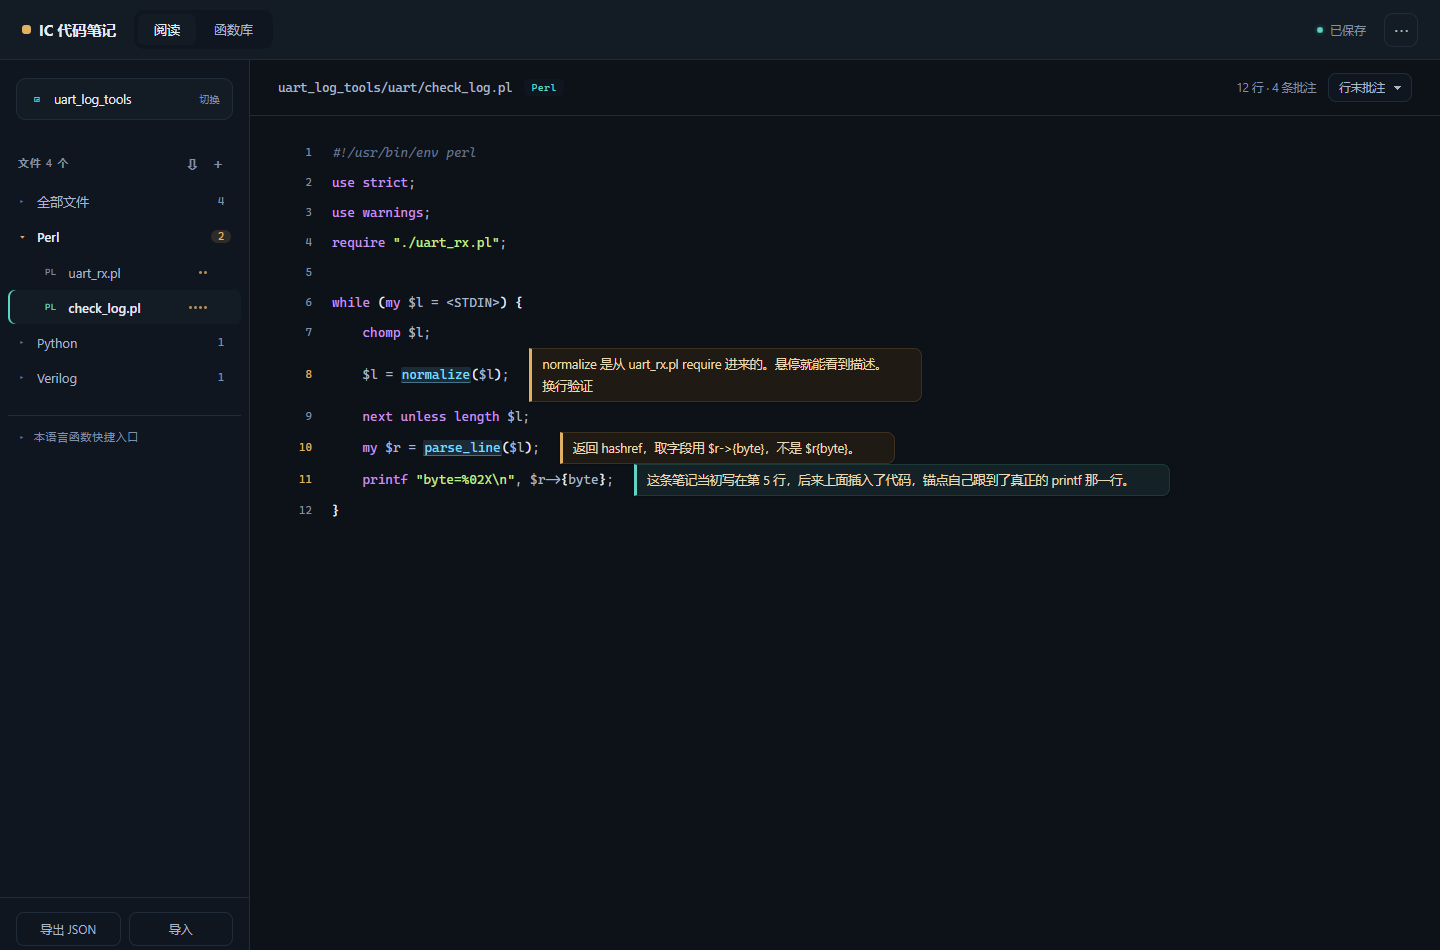
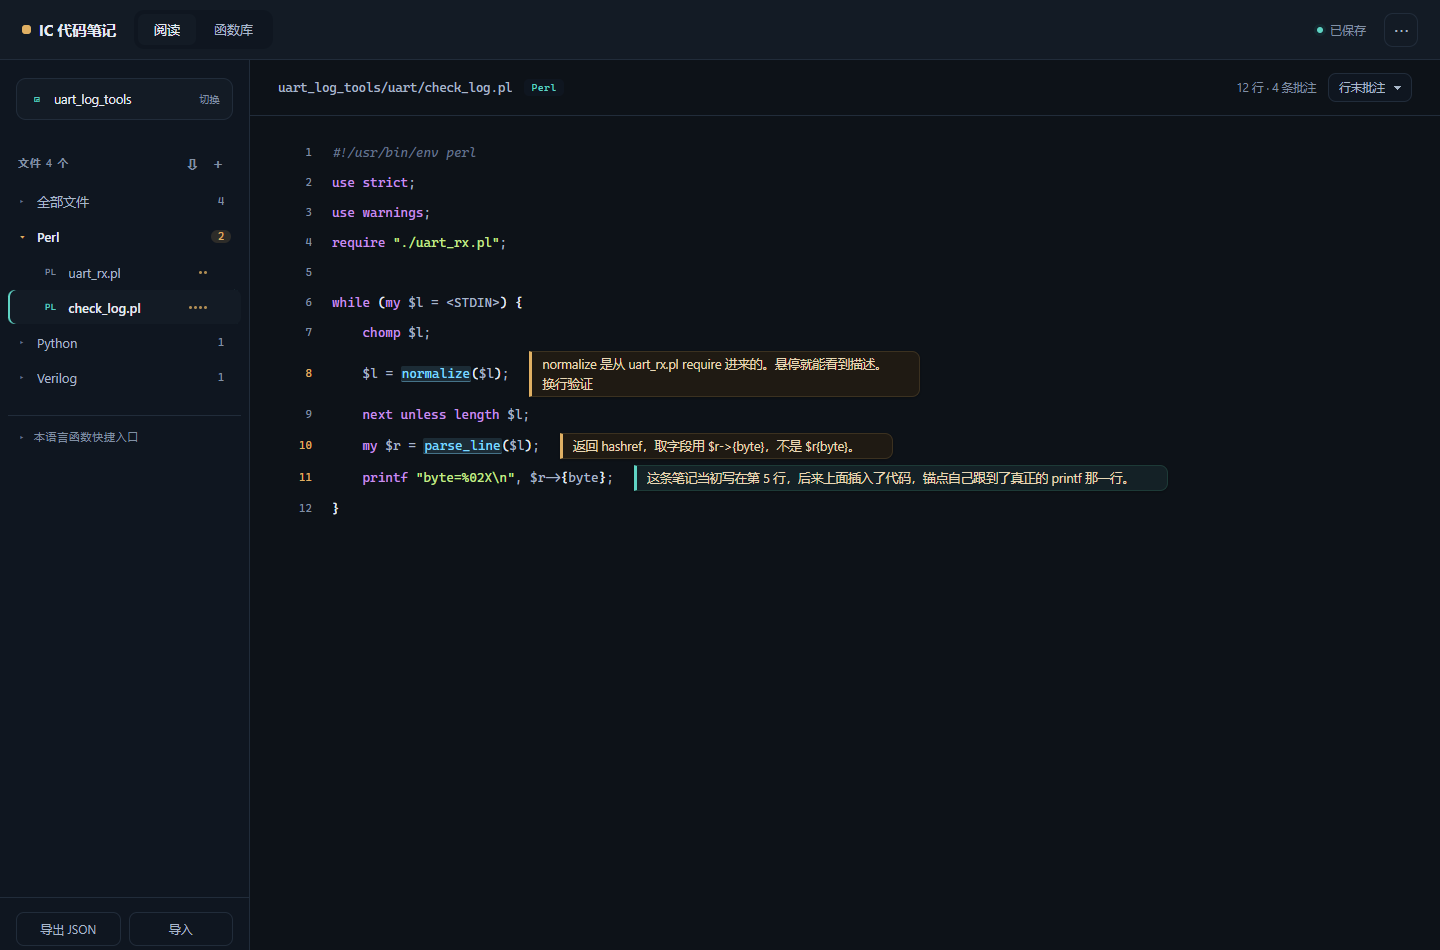
Tighten note card padding and add a visible gap between stacked cards

Changed region(s): [[0.25, 0.3663, 0.8125, 0.5189], [0.375, 0.3968, 0.4375, 0.4274]]

diff --git a/ui-refresh.css b/ui-refresh.css
@@ -155,13 +155,13 @@ button:focus-visible,select:focus-visible,input:focus-visible,[contenteditable]:
 /* ---------------- note cards ---------------- */
 .nb{position:relative;background:var(--note-bg);color:var(--note-ink);
   border-left:3px solid var(--accent);border-radius:0 8px 8px 0;
-  padding:4px 34px 4px 10px;margin:0}
-.nb .body,.nb .ctext{font-size:12.5px;line-height:22px;color:var(--note-ink);
-  white-space:pre-wrap;overflow-wrap:anywhere;outline:none;min-height:22px}
+  padding:2px 32px 2px 10px;margin:3px 0}
+.nb .body,.nb .ctext{font-size:12.5px;line-height:20px;color:var(--note-ink);
+  white-space:pre-wrap;overflow-wrap:anywhere;outline:none;min-height:20px}
 .nb .body:empty:before{content:attr(data-ph);content:"写下批注…";color:color-mix(in srgb,var(--note-ink) 55%,transparent)}
 .nb:focus-within{box-shadow:none}
-.nb.cmt{background:var(--com-bg);border-left:3px solid #9db3c6;padding:4px 12px;border-radius:0 8px 8px 0}
-.nb.cmt .ctext{color:var(--com-ink);font-size:12.5px;line-height:22px}
+.nb.cmt{background:var(--com-bg);border-left:3px solid #9db3c6;padding:2px 12px;border-radius:0 8px 8px 0}
+.nb.cmt .ctext{color:var(--com-ink);font-size:12.5px;line-height:20px}
 .nb.moved{border-left-color:var(--teal);background:color-mix(in srgb,var(--teal) 8%,var(--paper))}
 .nb.dup{border-left-color:var(--rose);background:color-mix(in srgb,var(--rose) 8%,var(--paper))}
 
